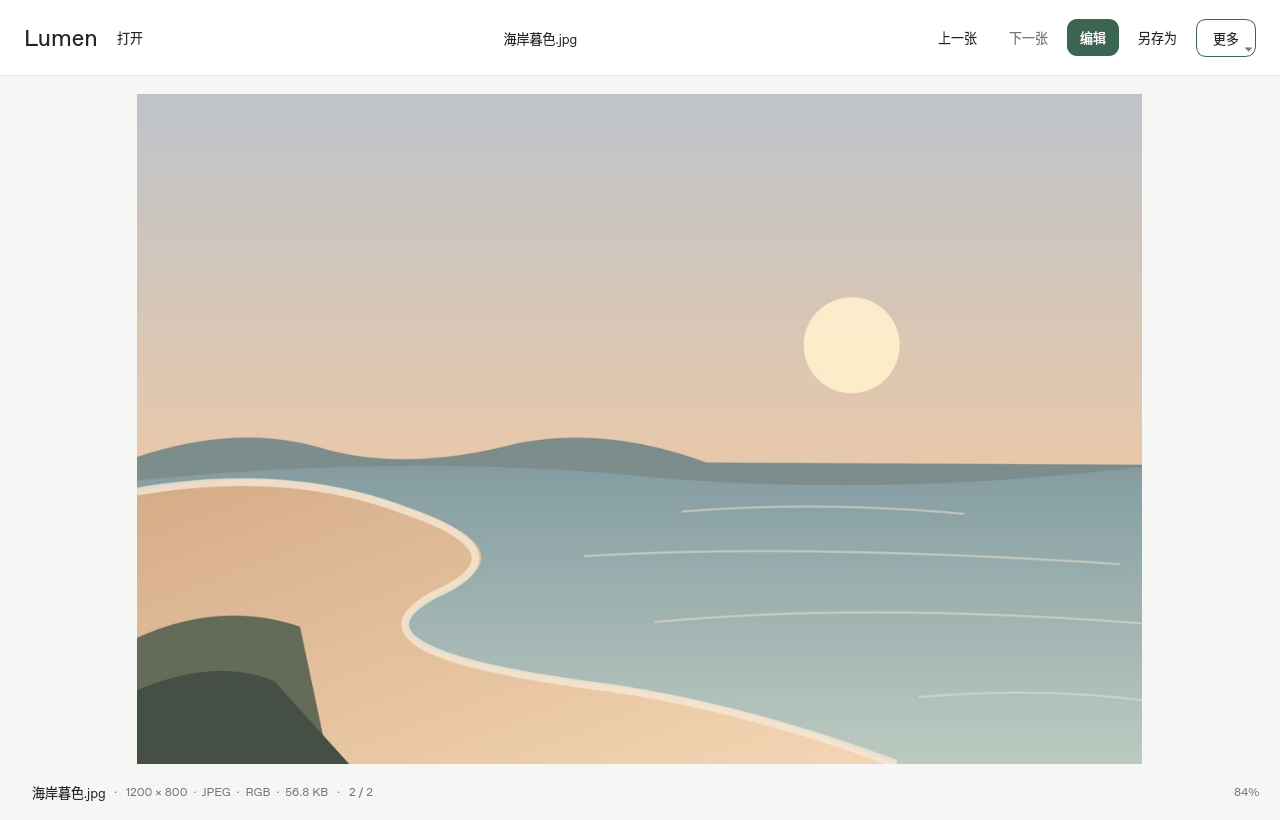
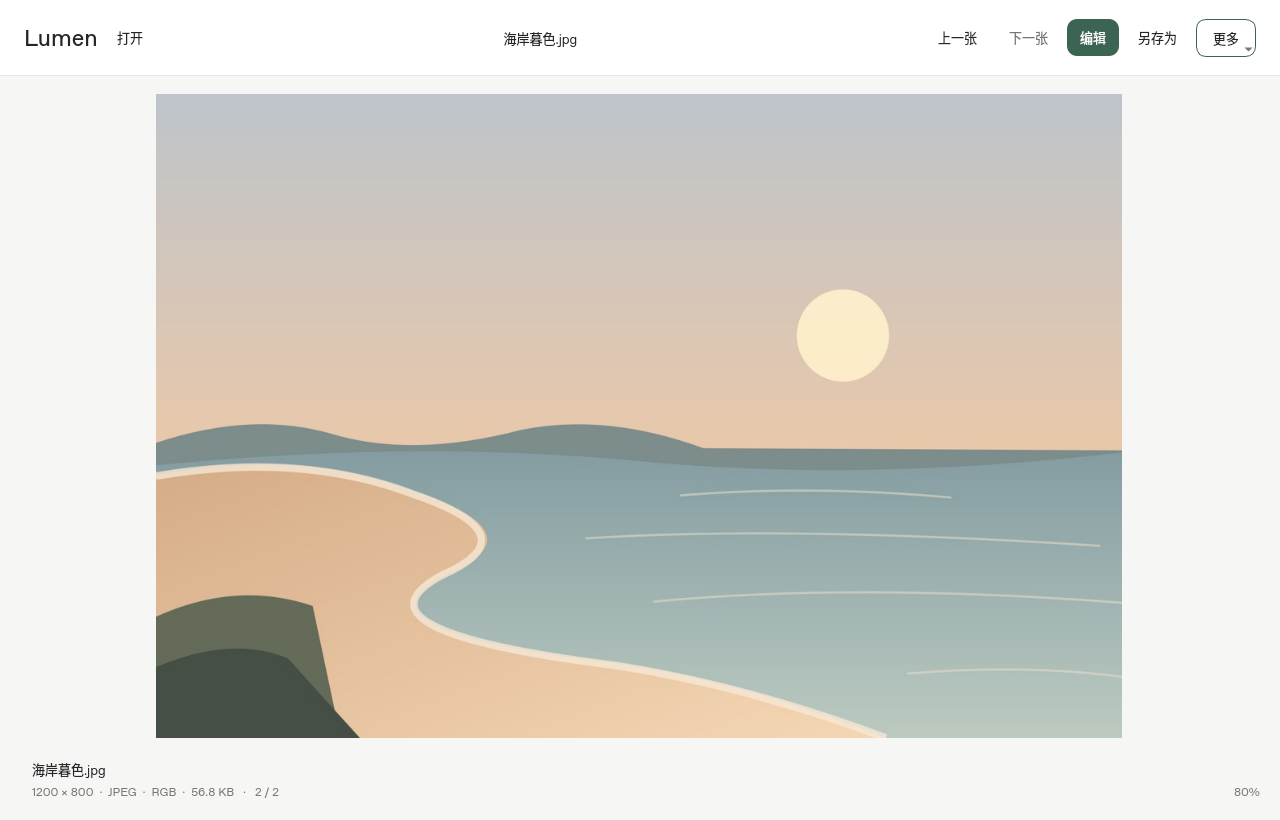
Separate filename and metadata into two footer rows

diff --git a/lumenview/window.py b/lumenview/window.py
@@ -11,13 +11,38 @@ from PySide6.QtCore import (
 from PySide6.QtGui import QAction, QFont, QGuiApplication, QKeySequence
 from PySide6.QtWidgets import (
     QFileDialog, QHBoxLayout, QLabel, QMainWindow, QMenu, QMessageBox,
-    QPushButton, QStackedWidget, QToolButton, QVBoxLayout, QWidget,
+    QPushButton, QSizePolicy, QStackedWidget, QToolButton, QVBoxLayout, QWidget,
 )
 
 from . import decoders, icons, theme
 from .canvas import ImageCanvas
 from .decoders import DecodeError, Loaded
 from .filmstrip import Filmstrip
+
+
+class _FilenameLabel(QLabel):
+    """Keep the full name accessible without letting it widen the window."""
+
+    def __init__(self, parent=None):
+        super().__init__(parent)
+        self._full_text = ""
+        self.setTextFormat(Qt.TextFormat.PlainText)
+        self.setSizePolicy(QSizePolicy.Policy.Ignored, QSizePolicy.Policy.Preferred)
+        self.setMinimumWidth(0)
+
+    def setText(self, text):
+        self._full_text = text
+        self.setToolTip(text)
+        self.setAccessibleName(text)
+        self._refresh()
+
+    def _refresh(self):
+        super().setText(self.fontMetrics().elidedText(
+            self._full_text, Qt.TextElideMode.ElideMiddle, self.contentsRect().width()))
+
+    def resizeEvent(self, event):
+        super().resizeEvent(event)
+        self._refresh()
 
 
 class _DecodeSignals(QObject):
@@ -213,13 +238,13 @@ class MainWindow(QMainWindow):
     def _build_footer(self, parent: QWidget) -> QWidget:
         footer = QWidget(parent)
         footer.setObjectName("Footer")
-        footer.setFixedHeight(26)
+        footer.setMinimumHeight(52)
 
-        layout = QHBoxLayout(footer)
-        layout.setContentsMargins(240, 0, 6, 2)
-        layout.setSpacing(8)
+        layout = QVBoxLayout(footer)
+        layout.setContentsMargins(240, 6, 6, 6)
+        layout.setSpacing(4)
 
-        self.name_label = QLabel("", footer)
+        self.name_label = _FilenameLabel(footer)
         self.name_label.setObjectName("PillName")
         self.info_label = QLabel("", footer)
         self.info_label.setObjectName("PillMeta")
@@ -228,18 +253,18 @@ class MainWindow(QMainWindow):
         self.zoom_label = QLabel("", footer)
         self.zoom_label.setObjectName("Zoom")
 
-        self._dot_a = QLabel("·", footer)
         self._dot_b = QLabel("·", footer)
-        for dot in (self._dot_a, self._dot_b):
-            dot.setObjectName("PillMeta")
+        self._dot_b.setObjectName("PillMeta")
 
         layout.addWidget(self.name_label)
-        layout.addWidget(self._dot_a)
-        layout.addWidget(self.info_label)
-        layout.addWidget(self._dot_b)
-        layout.addWidget(self.count_label)
-        layout.addStretch(1)
-        layout.addWidget(self.zoom_label)
+        metadata = QHBoxLayout()
+        metadata.setSpacing(8)
+        metadata.addWidget(self.info_label)
+        metadata.addWidget(self._dot_b)
+        metadata.addWidget(self.count_label)
+        metadata.addStretch(1)
+        metadata.addWidget(self.zoom_label)
+        layout.addLayout(metadata)
         footer.hide()
         return footer
 
@@ -385,7 +410,7 @@ class MainWindow(QMainWindow):
 
     def _sync_footer_margin(self) -> None:
         left = 240 if self._filmstrip.isVisible() else 18
-        self.footer.layout().setContentsMargins(left, 0, 6, 2)
+        self.footer.layout().setContentsMargins(left, 6, 6, 6)
 
     # ------------------------------------------------------------------ #
     # settings
